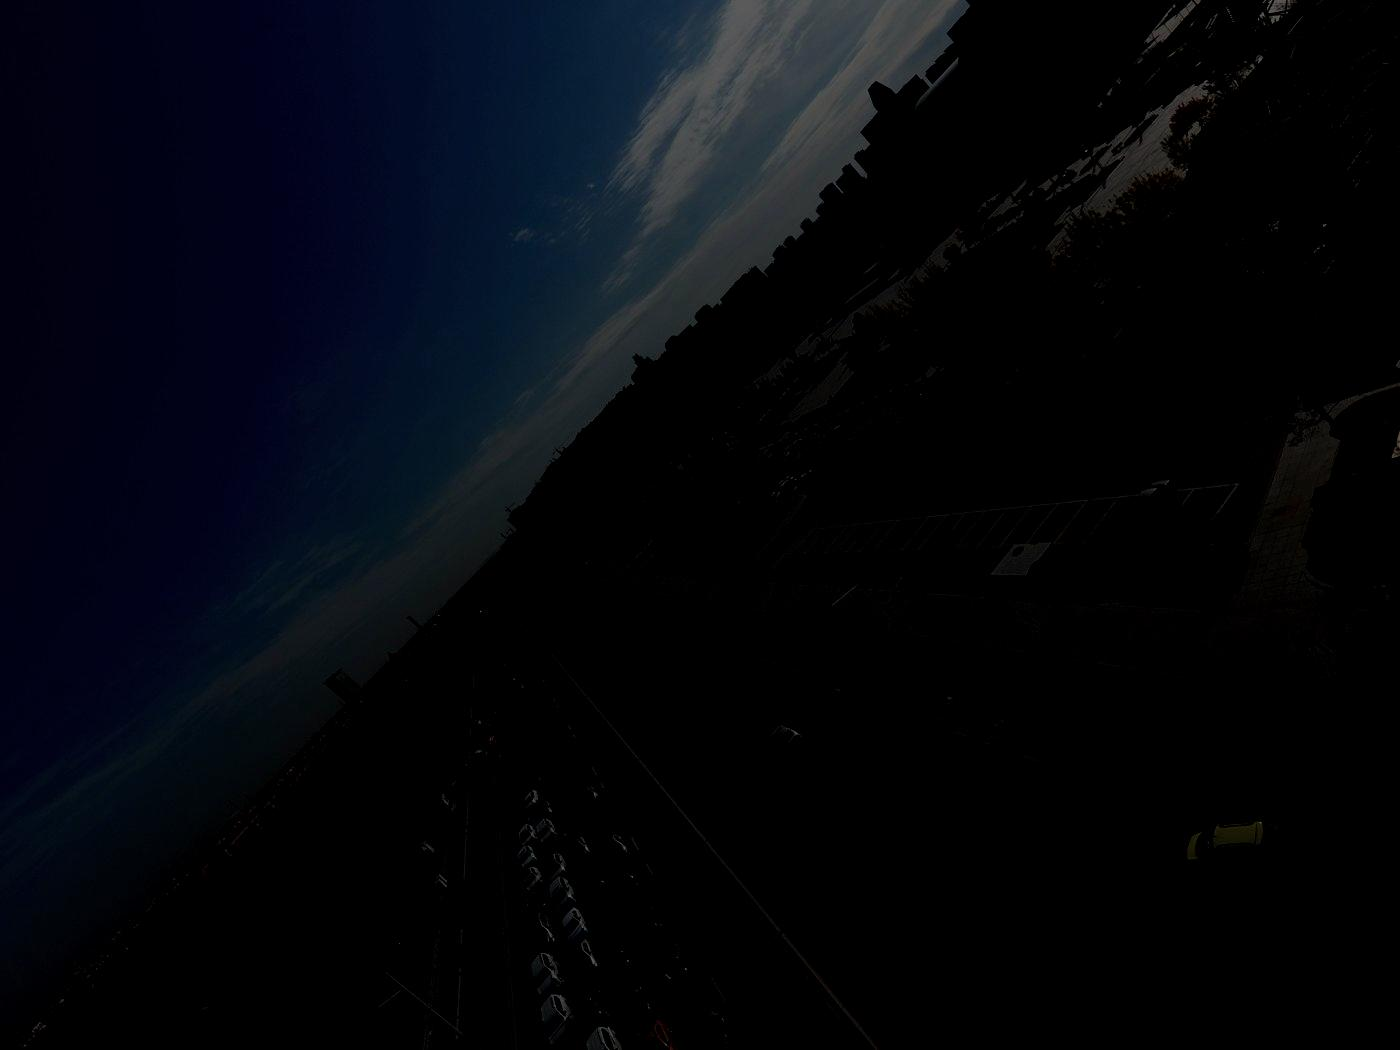
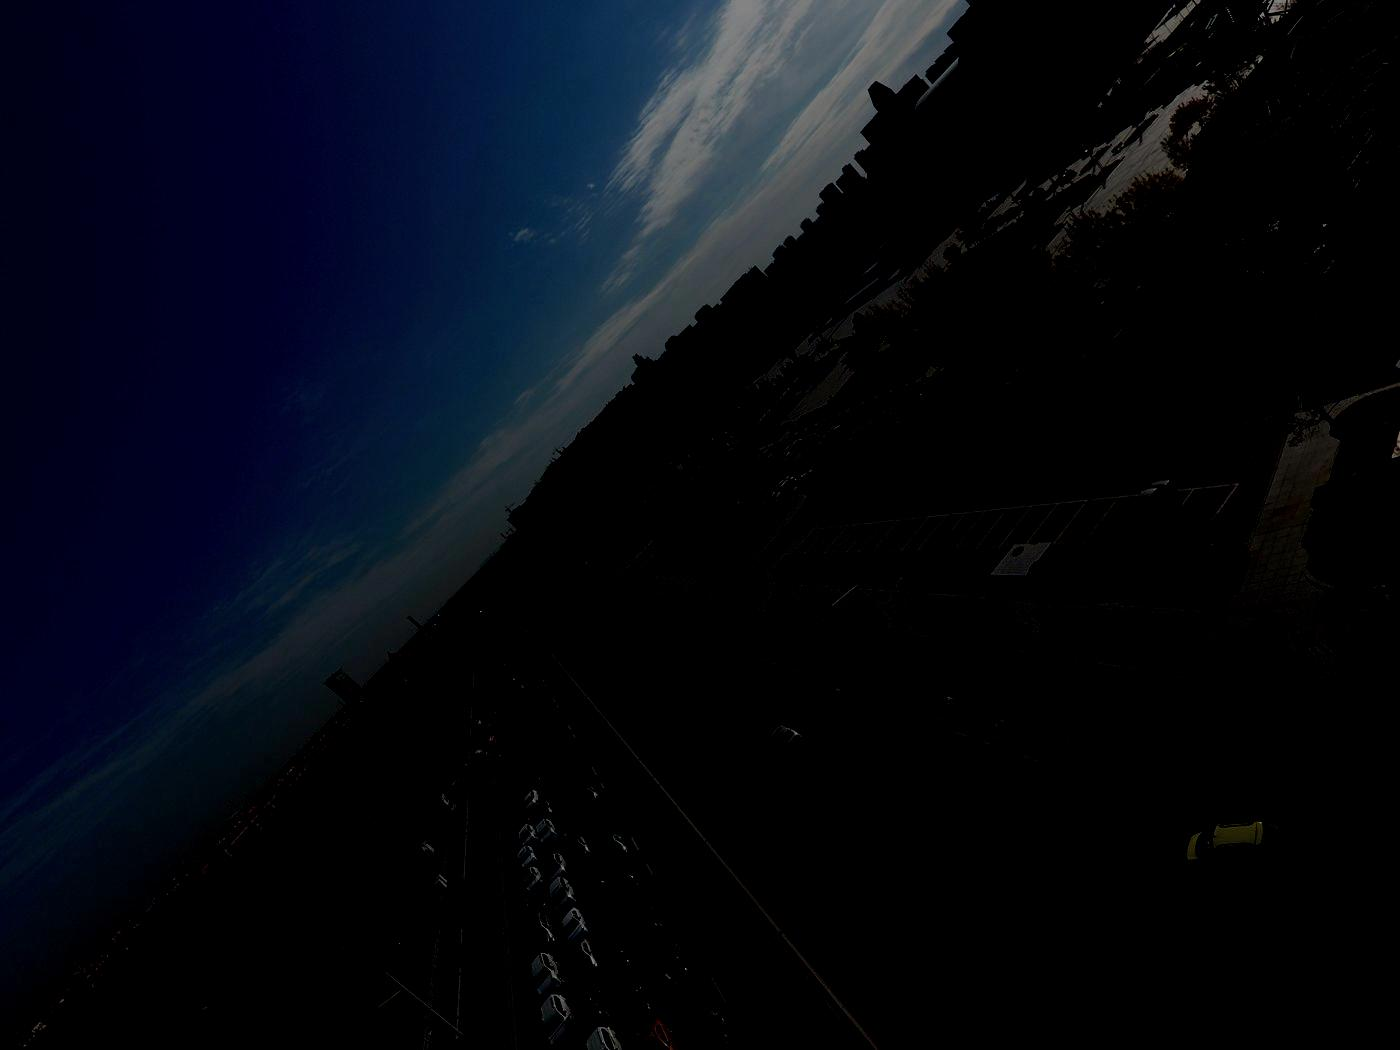
Add Multiprocessing to day_night_classifier

diff --git a/src/preprocessing/day_night_classifier.py b/src/preprocessing/day_night_classifier.py
@@ -1,6 +1,7 @@
 """Classe les images VisDrone en jour et nuit."""
 
 import shutil
+import os
 from pathlib import Path
 
 import torch
@@ -18,23 +19,47 @@ class DayNightClassifier:
         model_name: str = "facebook/sam3",
         prompt: str = "photo taken at night",
         threshold: float = 0.3,
+        batch_size: int = 1,
+        cache_dir: str | None = None,
         device: str | None = None,
     ):
         self.prompt = prompt
         self.threshold = threshold
+        self.batch_size = max(1, batch_size)
         self.device = device or ("cuda" if torch.cuda.is_available() else "cpu")
-        self.processor = Sam3Processor.from_pretrained(model_name)
-        self.model = Sam3Model.from_pretrained(model_name).to(self.device).eval()
+        token = os.getenv("HF_TOKEN") or os.getenv("HUGGINGFACE_HUB_TOKEN")
+        load_options = {"cache_dir": cache_dir, "token": token}
+        try:
+            self.processor = Sam3Processor.from_pretrained(model_name, **load_options)
+            self.model = Sam3Model.from_pretrained(model_name, **load_options).to(self.device).eval()
+        except OSError as error:
+            if "gated" in str(error).lower() or "401" in str(error):
+                raise RuntimeError(
+                    f"Le modele Hugging Face {model_name} est protege. "
+                    "Accepter son acces sur Hugging Face puis definir HF_TOKEN "
+                    "(ou HUGGINGFACE_HUB_TOKEN) avant de relancer."
+                ) from error
+            raise
 
     def is_night(self, image: Image.Image) -> bool:
         """Retourne True si l'image est classée comme image de nuit."""
+        return self.is_night_batch([image])[0]
+
+    def is_night_batch(self, images: list[Image.Image]) -> list[bool]:
+        """Classifie plusieurs images en une seule inférence SAM3."""
+        if not images:
+            return []
+
         inputs = self.processor(
-            images=image, text=self.prompt, return_tensors="pt"
+            images=images,
+            text=[self.prompt] * len(images),
+            return_tensors="pt",
         ).to(self.device)
         with torch.no_grad():
             outputs = self.model(**inputs)
-        score = torch.sigmoid(outputs.presence_logits).item()
-        return score >= self.threshold
+        logits = outputs.presence_logits.reshape(len(images), -1)[:, 0]
+        scores = torch.sigmoid(logits)
+        return (scores >= self.threshold).tolist()
 
     def _copy_image_and_annotation(
         self,
@@ -70,16 +95,25 @@ class DayNightClassifier:
             if path.suffix.lower() in {".jpg", ".jpeg", ".png"}
         )
 
-        for image_path in tqdm(image_paths, desc=f"Classification {split_name}"):
-            with Image.open(image_path) as image:
+        for start in tqdm(
+            range(0, len(image_paths), self.batch_size),
+            desc=f"Classification {split_name}",
+        ):
+            batch_paths = image_paths[start : start + self.batch_size]
+            images = []
+            for image_path in batch_paths:
+                with Image.open(image_path) as image:
+                    images.append(image.convert("RGB"))
+            night_flags = self.is_night_batch(images)
+            for image_path, is_night in zip(batch_paths, night_flags):
                 destination = (
                     night_dir / split_name
-                    if self.is_night(image)
+                    if is_night
                     else day_dir / split_name
                 )
-            self._copy_image_and_annotation(
-                image_path, images_dir, annotations_dir, destination
-            )
+                self._copy_image_and_annotation(
+                    image_path, images_dir, annotations_dir, destination
+                )
 
         print(f"{split_name}: {len(image_paths)} images classées")
 
@@ -99,6 +133,8 @@ def main() -> None:
         model_name=config.get("model_name", "facebook/sam3"),
         prompt=config.get("prompt", "photo taken at night"),
         threshold=config.get("presence_threshold", 0.3),
+        batch_size=config.get("batch_size", 1),
+        cache_dir=config.get("cache_dir"),
     )
     for split_name in ("train", "val", "test"):
         classifier.process_split(

diff --git a/README.md b/README.md
@@ -112,11 +112,20 @@ La classification jour/nuit et la synthese sont deux etapes separees. Lancer
 d'abord la classification :
 
 ```bash
+export HF_TOKEN="hf_..."
 python -m src.preprocessing.day_night_classifier
 ```
 
+`facebook/sam3` est un modele Hugging Face protege. Il faut d'abord demander et
+accepter l'acces a la page du modele, puis fournir un token Hugging Face avec le
+role de lecture. Le token peut aussi etre stocke dans un secret Kaggle nomme
+`HF_TOKEN`. Il n'est jamais ecrit dans la configuration ni dans le depot.
+
 Elle copie les images de jour dans `data/splits/` et les images de nuit dans
 `data/real_lowlight_test/`. Lancer ensuite la synthese :
+
+La classification utilise des lots de `8` images, selon `batch_size` dans
+`configs/preprocessing.yaml`. Reduire cette valeur si la memoire GPU est insuffisante.
 
 ```bash
 python -m src.degradation.degradation_pipeline
